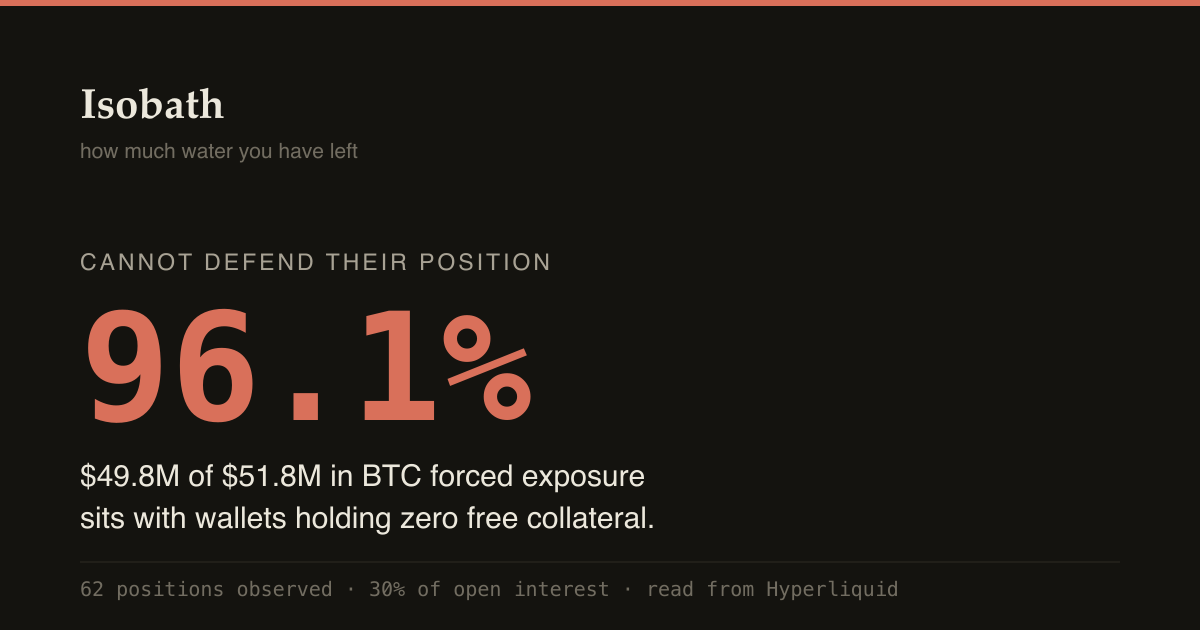
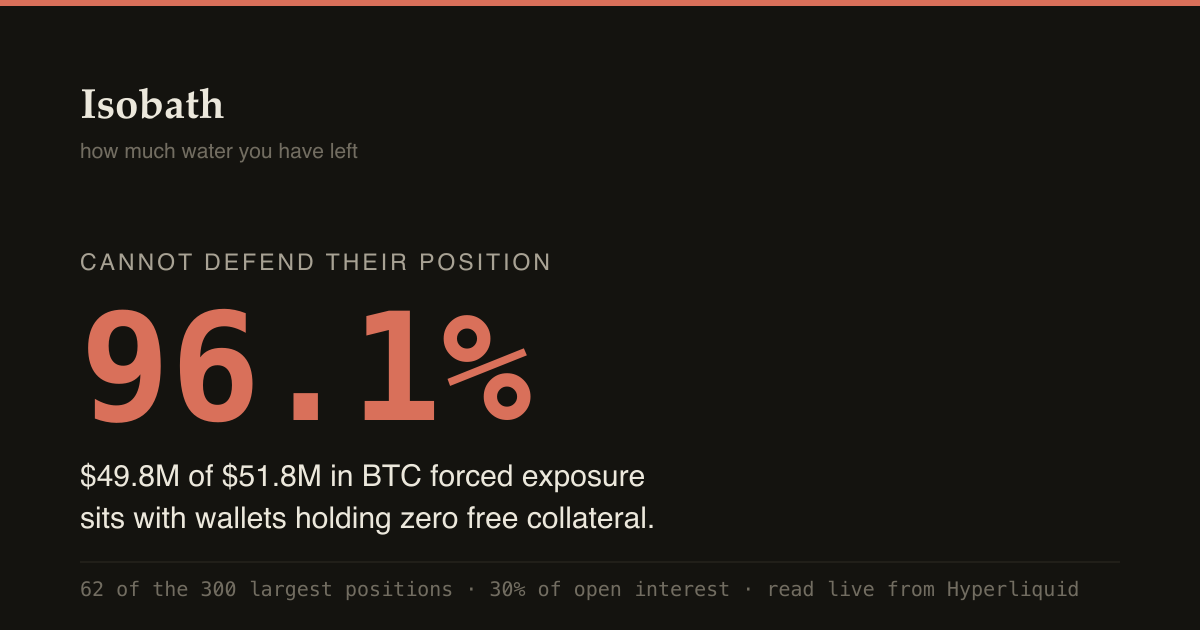
Phase 1: the caveat reaches the numbers that actually travel
F-0011 was stated on the map this afternoon and nowhere else. The home page
headline, the social card, llms.txt and the MCP response all quoted the same
figure with no caveat at all -- so the least qualified number on the site was
also the one that travelled furthest.

96.1% cannot defend is among the 300 LARGEST positions, and F-0011 found those
sit further from liquidation than the full universe: deep scans show median
distance 15.5% and 42.8% within 10%, against the fast tier's 31.6% and 23.0%.

The wording is written once in lib/data.ts population() and used on every
surface, because a caveat that appears on one page and not another is worse than
none -- it makes the unqualified number look like the reliable one.

The social card duplicates the wording rather than importing it: og.mjs runs
before Astro and cannot reach src. Noted in both places.

The MCP response gets it as an explicit population_bias field. An agent relaying
a figure to someone who will never see the site is where an unstated selection
bias does the most damage, and the tests already treat a missing coverage field
as a failure.

34 of 34 suites pass.

Changed region(s): [[0.0925, 0.9048, 0.6783, 0.9651], [0.7092, 0.9048, 0.8942, 0.9651]]

diff --git a/web/src/lib/data.ts b/web/src/lib/data.ts
@@ -145,6 +145,24 @@ export const TIERS: Record<Tier, string> = {
   historical: 'measured over an archive',
 };
 
+/**
+ * How to describe the population a figure was drawn from.
+ *
+ * F-0011: the hourly fast tier is the top 300 wallets by position notional, and those sit
+ * FURTHER from liquidation than the full universe -- deep scans show median distance 15.5% and
+ * 42.8% within 10%, against the fast tier's 31.6% and 23.0%. So an unqualified headline drawn
+ * from the fast tier overstates how representative it is.
+ *
+ * Written once and used on every surface -- home page, map, social card, llms.txt, MCP -- because
+ * a caveat that appears on one page and not another is worse than none: it looks like the
+ * unqualified number is the reliable one.
+ */
+export function population(tier: string, wallets: number): string {
+  return tier === 'fast'
+    ? `${wallets} positions from the hourly scan of the 300 largest, which sit further from liquidation than the full universe (F-0011)`
+    : `${wallets} positions from the full frozen universe`;
+}
+
 /** Resolve a site-root-relative path against the configured base. */
 export function url(path: string): string {
   const base = import.meta.env.BASE_URL.replace(/\/$/, '');

diff --git a/web/src/pages/llms.txt.ts b/web/src/pages/llms.txt.ts
@@ -1,6 +1,6 @@
 import type { APIRoute } from 'astro';
 import { getCollection } from 'astro:content';
-import { SITE, marketMap, scorecard, usd } from '../lib/data';
+import { SITE, marketMap, population, scorecard, usd } from '../lib/data';
 
 /**
  * llms.txt -- the site stated plainly for a retrieval system.
@@ -41,7 +41,7 @@ later refuted stay published.
 
 - Forced exposure within ±10%: ${usd(m.totals.forced_notional_usd)}
 - Cannot defend: ${m.totals.cannot_defend_pct}% (${usd(m.totals.cannot_defend_usd)})
-- Positions observed: ${m.totals.wallets_in_band} of ${m.coverage.wallets_scanned} wallets scanned
+- Drawn from: ${population(m.coverage.tier, m.totals.wallets_in_band)}
 - Coverage of exchange open interest, THIS scan: ${(m.coverage.observed_fraction * 100).toFixed(1)}%
 - Map taken at: ${m.map_taken_at}
 

diff --git a/product/mcp_server.py b/product/mcp_server.py
@@ -91,6 +91,14 @@ def tool_market_map(asset="BTC"):
             "scan_tier": cov["tier"],
             "method": cov["method"],
             "caveat": cov["note"],
+            # F-0011. An agent relaying this figure to someone who will never see the site is
+            # exactly where an unstated selection bias does the most damage.
+            "population_bias": (
+                "the hourly fast tier is the 300 largest positions by notional, which sit "
+                "further from liquidation than the full universe (F-0011); this figure is not "
+                "representative of all leveraged positions"
+                if cov["tier"] == "fast" else "full frozen universe"
+            ),
         },
         "provenance": "observed (positions) + calculated (bucketing); no predicted tier exists",
         "we_do_not_claim": m.get("we_do_not_claim", []),
